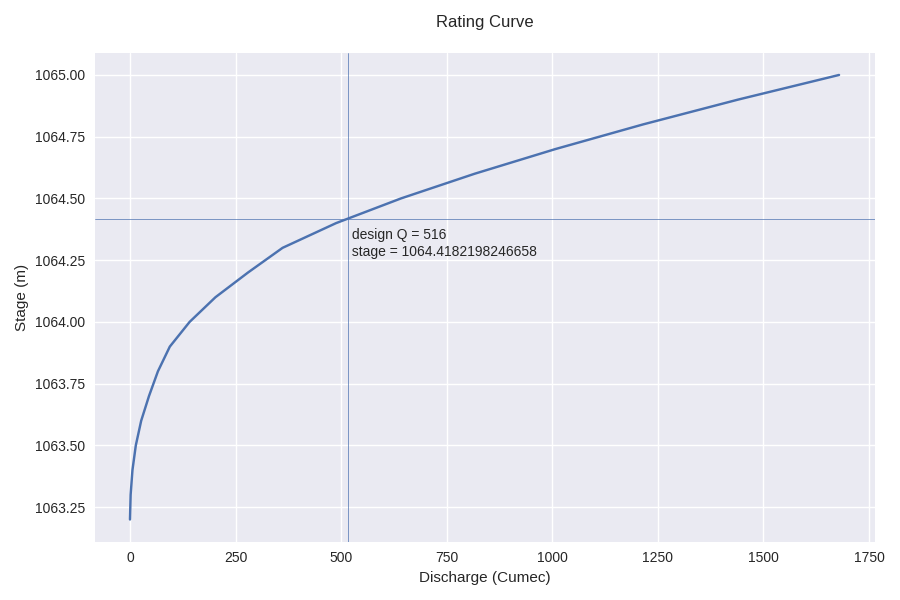
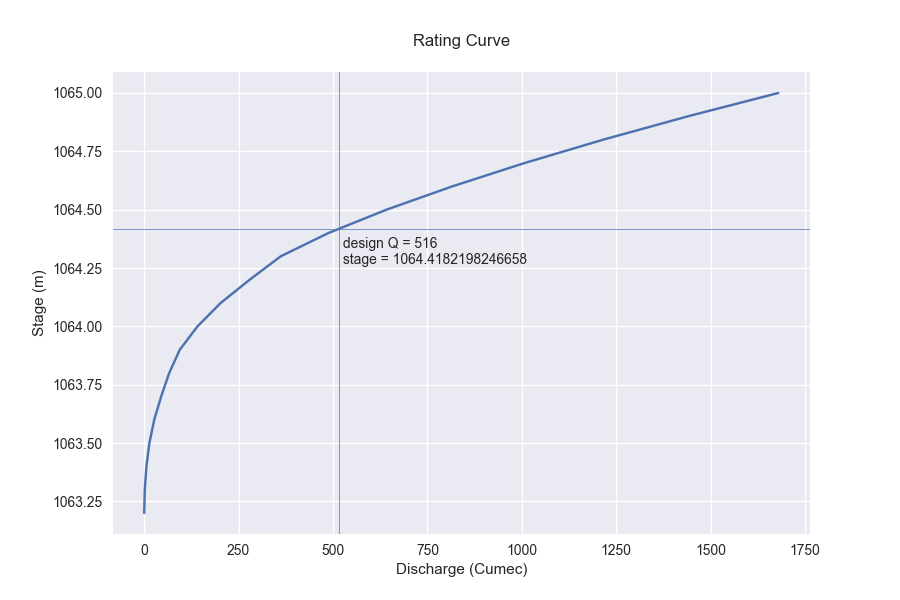
-new plot for cross section

diff --git a/rating_curve.py b/rating_curve.py
@@ -3,6 +3,7 @@ import math
 import matplotlib.pyplot as plt
 
 plt.style.use('seaborn')
+plt.ioff()
 
 dist = []
 rl = []
@@ -80,14 +81,30 @@ for index, q in enumerate(discharge):
         break
 st = interpolate_x(p, q, designQ)
 
-plt.figure(figsize=(9, 6))
-plt.plot(discharge, stage)
-plt.xlabel('Discharge (Cumec)')
-plt.ylabel('Stage (m)')
-plt.title('Rating Curve\n')
-# plt.plot(dist, rl)
-plt.axhline(y=st, linewidth=0.5)
-plt.axvline(x=designQ, linewidth=0.5)
-plt.text(designQ, st - 0.15, f' design Q = {designQ}\n stage = {st}')
+
+plt.rcParams['figure.figsize'] = (9, 6)
+
+fig1, ax1 = plt.subplots()
+fig2, ax2 = plt.subplots()
+
+ax1.plot(discharge, stage)
+ax1.set_xlabel('Discharge (Cumec)')
+ax1.set_ylabel('Stage (m)')
+ax1.set_title('Rating Curve\n')
+ax1.axhline(y=st, linewidth=0.5)
+ax1.axvline(x=designQ, linewidth=0.5)
+ax1.text(designQ, st - 0.15, f' design Q = {designQ}\n stage = {st}')
+
+ax2.plot(dist, rl)
+ax2.set_xlabel('x (Cumec)')
+ax2.set_ylabel('RL (m)')
+ax2.set_title('Cross Section\n')
+ax2.axhline(y=st, linewidth=0.5)
+# ax2.axvline(x=designQ, linewidth=0.5)
+ax2.text(50, st, f' Design flood level = {st}')
+
+
 plt.tight_layout()
-plt.savefig('outputs/rating_curve.png')
+
+fig1.savefig('outputs/rating_curve.png')
+fig2.savefig('outputs/cross_section.png')
